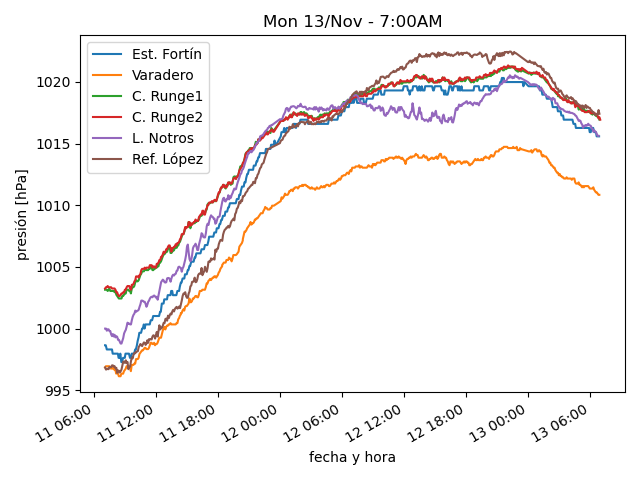
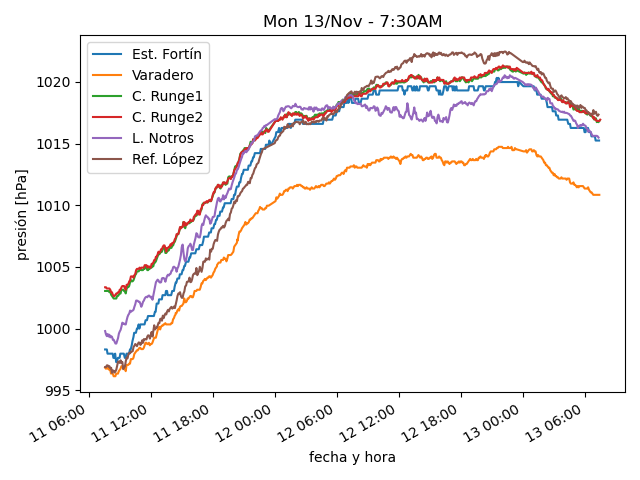
actualiza datos

diff --git a/estaciones/estacion1.html b/estaciones/estacion1.html
@@ -18,32 +18,32 @@
     </tr>
     <tr>
      <td class="stats_data">
-      6:53AM
+      7:23AM
      </td>
     </tr>
     <tr>
      <td class="stats_data">
-      3.8⁰C
+      4.9⁰C
      </td>
     </tr>
     <tr>
      <td class="stats_data">
-      -2.1⁰C
+      -1.8⁰C
      </td>
     </tr>
     <tr>
      <td class="stats_data">
-      66.0%
+      62.0%
      </td>
     </tr>
     <tr>
      <td class="stats_data">
-      1015.58hPa
+      1015.24hPa
      </td>
     </tr>
     <tr>
      <td class="stats_data">
-      20.2/29.8 km/hr WNW
+      15.3/31.4 km/hr W
      </td>
     </tr>
     <tr>
@@ -58,7 +58,7 @@
     </tr>
     <tr>
      <td class="stats_data">
-      19.0 W/m²
+      54.0 W/m²
      </td>
     </tr>
    </tbody>

diff --git a/estaciones/estacion3.html b/estaciones/estacion3.html
@@ -18,32 +18,32 @@
     </tr>
     <tr>
      <td class="stats_data">
-      6:54AM
+      7:24AM
      </td>
     </tr>
     <tr>
      <td class="stats_data">
-      3.2⁰C
+      3.3⁰C
      </td>
     </tr>
     <tr>
      <td class="stats_data">
-      -0.6⁰C
+      -0.5⁰C
      </td>
     </tr>
     <tr>
      <td class="stats_data">
-      75.8%
+      76.0%
      </td>
     </tr>
     <tr>
      <td class="stats_data">
-      1005.22hPa
+      1005.11hPa
      </td>
     </tr>
     <tr>
      <td class="stats_data">
-      5.0/6.9 km/hr WNW
+      10.1/14.4 km/hr WNW
      </td>
     </tr>
     <tr>
@@ -58,7 +58,7 @@
     </tr>
     <tr>
      <td class="stats_data">
-      28.6 W/m²
+      43.3 W/m²
      </td>
     </tr>
    </tbody>

diff --git a/estaciones/estacion6.html b/estaciones/estacion6.html
@@ -18,17 +18,17 @@
     </tr>
     <tr>
      <td class="stats_data">
-      6:55AM
+      7:20AM
      </td>
     </tr>
     <tr>
      <td class="stats_data">
-      -3.1⁰C
+      -2.8⁰C
      </td>
     </tr>
     <tr>
      <td class="stats_data">
-      -4.1⁰C
+      -3.7⁰C
      </td>
     </tr>
     <tr>
@@ -38,12 +38,12 @@
     </tr>
     <tr>
      <td class="stats_data">
-      1018.8hPa
+      1018.73hPa
      </td>
     </tr>
     <tr>
      <td class="stats_data">
-      6.4/19.3 km/hr NE
+      3.2/11.3 km/hr ENE
      </td>
     </tr>
     <tr>
@@ -58,7 +58,7 @@
     </tr>
     <tr>
      <td class="stats_data">
-      902.0 W/m²
+      907.0 W/m²
      </td>
     </tr>
    </tbody>

diff --git a/estaciones/estacion2.html b/estaciones/estacion2.html
@@ -18,12 +18,12 @@
     </tr>
     <tr>
      <td class="stats_data">
-      6:54AM
+      7:24AM
      </td>
     </tr>
     <tr>
      <td class="stats_data">
-      5.5⁰C
+      5.7⁰C
      </td>
     </tr>
     <tr>
@@ -33,7 +33,7 @@
     </tr>
     <tr>
      <td class="stats_data">
-      76.9%
+      76.3%
      </td>
     </tr>
     <tr>
@@ -43,7 +43,7 @@
     </tr>
     <tr>
      <td class="stats_data">
-      29.8/36.4 km/hr NW
+      29.1/36.3 km/hr NW
      </td>
     </tr>
     <tr>
@@ -58,7 +58,7 @@
     </tr>
     <tr>
      <td class="stats_data">
-      25.1 W/m²
+      73.3 W/m²
      </td>
     </tr>
    </tbody>

diff --git a/estaciones/estacion4.html b/estaciones/estacion4.html
@@ -18,12 +18,12 @@
     </tr>
     <tr>
      <td class="stats_data">
-      6:59AM
+      7:29AM
      </td>
     </tr>
     <tr>
      <td class="stats_data">
-      3.3⁰C
+      3.4⁰C
      </td>
     </tr>
     <tr>
@@ -33,7 +33,7 @@
     </tr>
     <tr>
      <td class="stats_data">
-      72.4%
+      72.3%
      </td>
     </tr>
     <tr>
@@ -43,7 +43,7 @@
     </tr>
     <tr>
      <td class="stats_data">
-      1.8/3.1 km/hr SSW
+      3.1/4.8 km/hr SW
      </td>
     </tr>
     <tr>
@@ -58,7 +58,7 @@
     </tr>
     <tr>
      <td class="stats_data">
-      22.2 W/m²
+      51.6 W/m²
      </td>
     </tr>
    </tbody>

diff --git a/estaciones/estacion5.html b/estaciones/estacion5.html
@@ -18,17 +18,17 @@
     </tr>
     <tr>
      <td class="stats_data">
-      6:50AM
+      7:20AM
      </td>
     </tr>
     <tr>
      <td class="stats_data">
-      3.5⁰C
+      4.0⁰C
      </td>
     </tr>
     <tr>
      <td class="stats_data">
-      -0.7⁰C
+      -0.3⁰C
      </td>
     </tr>
     <tr>
@@ -38,12 +38,12 @@
     </tr>
     <tr>
      <td class="stats_data">
-      1018.19hPa
+      1018.05hPa
      </td>
     </tr>
     <tr>
      <td class="stats_data">
-      0.0/0.0 km/hr N
+      0.0/3.5 km/hr N
      </td>
     </tr>
     <tr>
